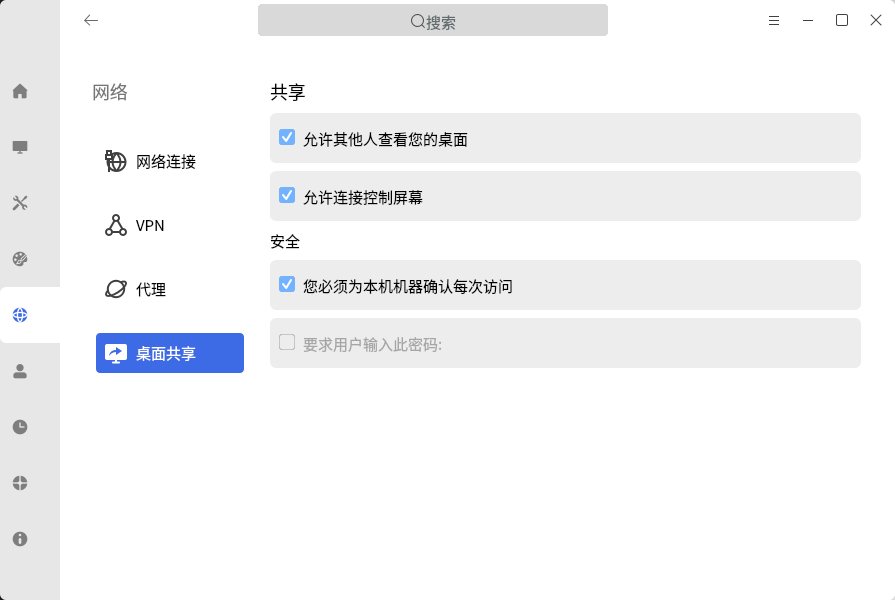
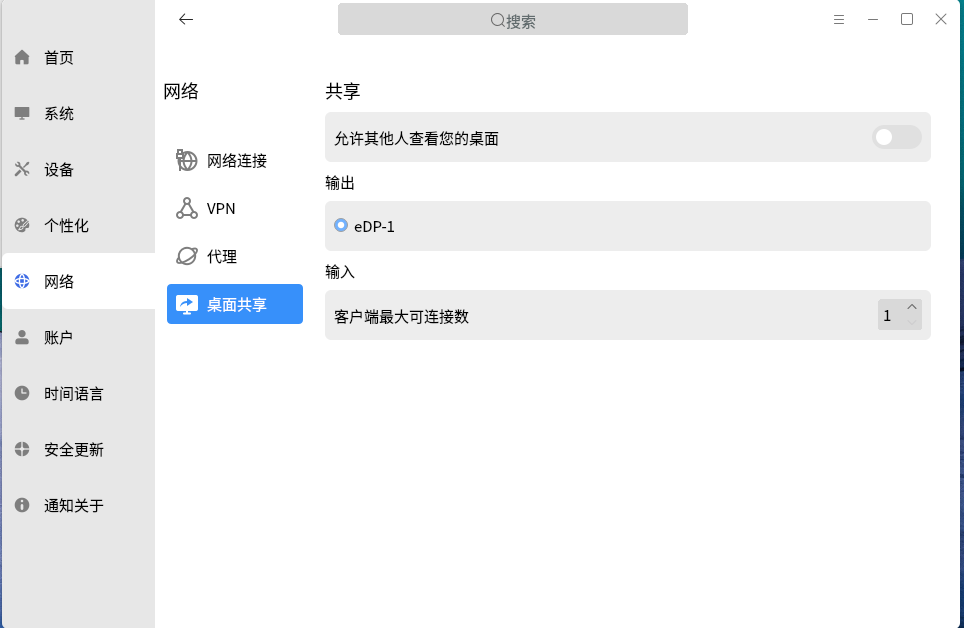
fix(UserManual): UserManual
Description: UserManual

Log: 更新用户手册桌面共享的截图

diff --git a/data/en_US/index.md b/data/en_US/index.md
@@ -176,9 +176,9 @@ Auto proxy, manual proxy (including HTTP, HTTPS, FTP, SOCKS).
 ![Fig 28 Proxy-big](image/28.png)
 
 ### Vino
-Users can set that confirm when conect or enter specified password after checking "Allow others to view your desktop".
+Users can set that confirm when conectafter checking "Allow others to view your desktop".
 
-![Fig 29 Vino-big](image/29.png)
+![Fig 29 Vino-big](image/Vino.png)
 <br>
 
 ## Account

diff --git a/data/zh_CN/index.md b/data/zh_CN/index.md
@@ -253,7 +253,13 @@ Tips：系统快捷键不允许修改。
 自动代理开启/关闭，手动代理设置(包括HTTP, HTTPS, FTP,SOCKS代理)
 ![图 22 代理-big](image/delegate.png)
 
+### 桌面共享
+
+可在此开启vino服务，限制客户端的连接
+![图 33 桌面共享-big](image/vino.png)
+
 ## 账 户
+
 包括账户信息和云账户两个模块
 
 ### 账户信息
